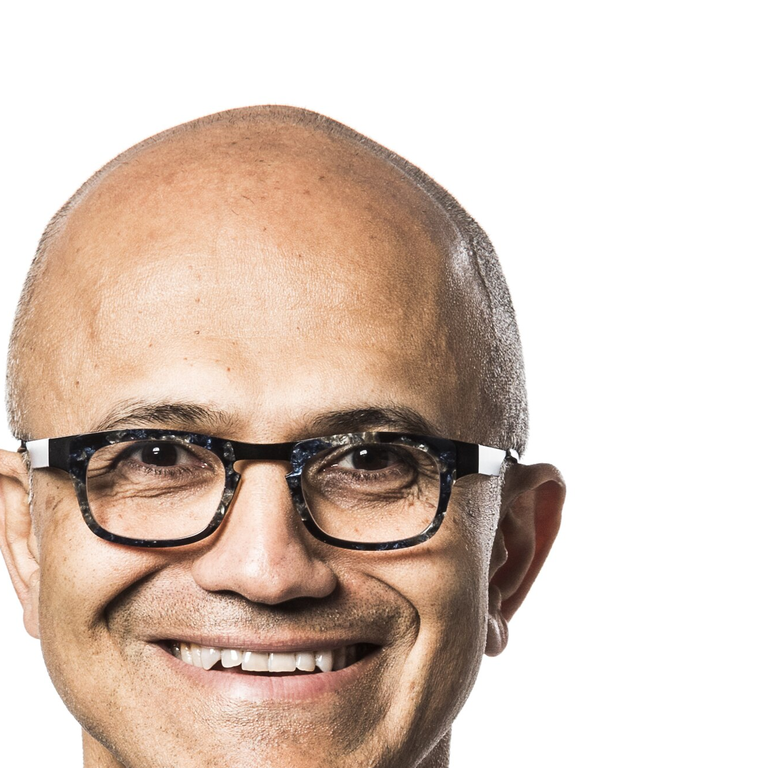
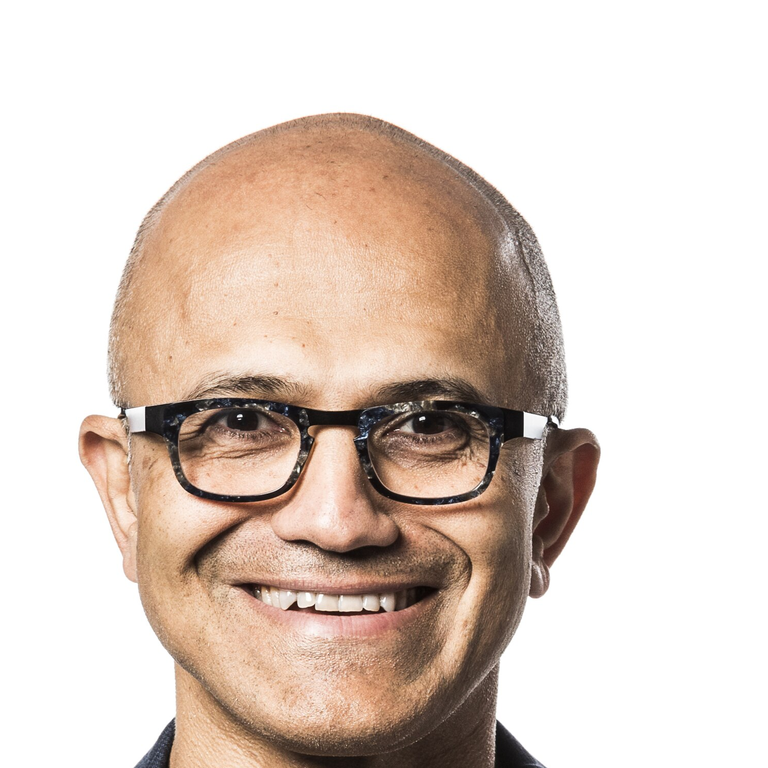
Center Satya Nadella’s quote portrait in the circle.

diff --git a/frontend/src/site/SiteShell.js b/frontend/src/site/SiteShell.js
@@ -201,25 +201,25 @@ function HomePanel({ onOpenTab, onOpenGame }) {
       text: 'Wear your failure as a badge of honor.',
       name: 'Sundar Pichai',
       role: 'CEO, Google',
-      photo: '/images/quotes/sundar-pichai.png?v=9',
+      photo: '/images/quotes/sundar-pichai.png?v=10',
     },
     {
       text: 'Our industry does not respect tradition — it only respects innovation.',
       name: 'Satya Nadella',
       role: 'CEO, Microsoft',
-      photo: '/images/quotes/satya-nadella.png?v=9',
+      photo: '/images/quotes/satya-nadella.png?v=10',
     },
     {
       text: 'Talk is cheap. Show me the code.',
       name: 'Linus Torvalds',
       role: 'Creator of Linux',
-      photo: '/images/quotes/linus-torvalds.png?v=9',
+      photo: '/images/quotes/linus-torvalds.png?v=10',
     },
     {
       text: 'Design is not just what it looks like and feels like. Design is how it works.',
       name: 'Steve Jobs',
       role: 'Co-founder, Apple',
-      photo: '/images/quotes/steve-jobs.png?v=9',
+      photo: '/images/quotes/steve-jobs.png?v=10',
     },
   ];
   const fieldNotes = [
